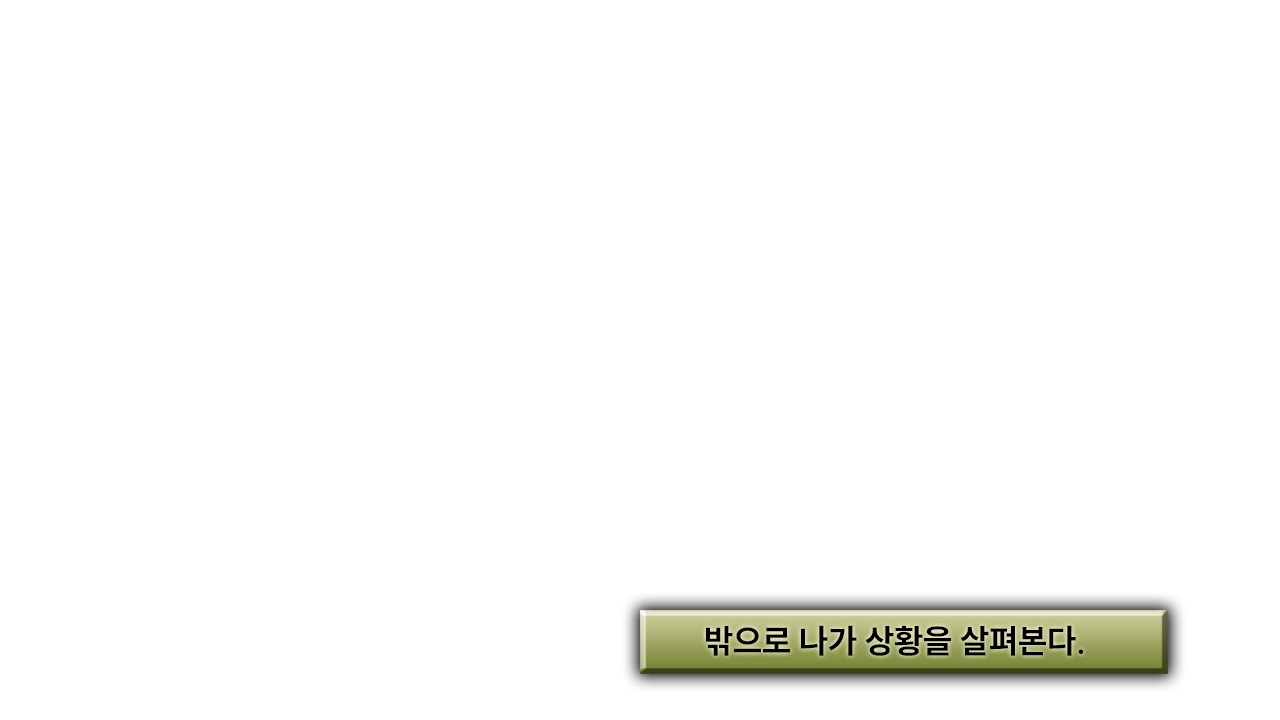
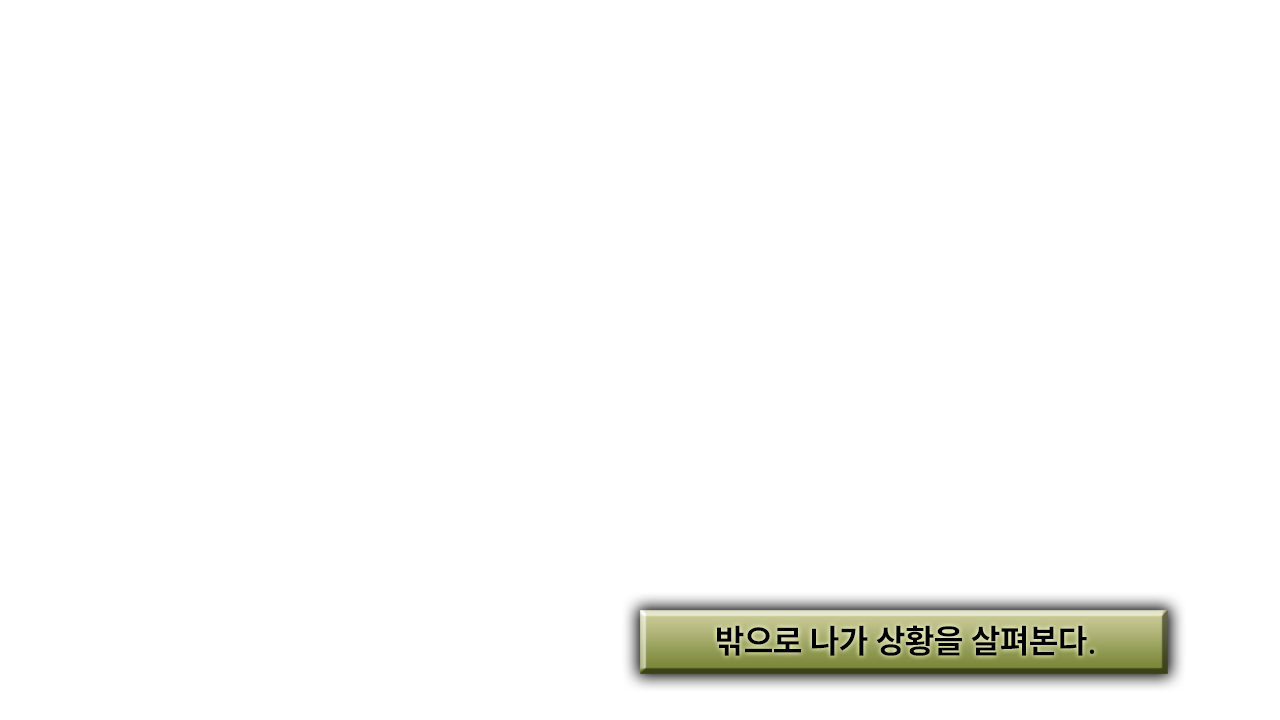
Refactor: 매크로 및 열거형의 추가
가독성의 개선, 에셋 변경

Changed region(s): [[0.5312, 0.8556, 0.875, 0.9167]]

diff --git a/SDL-Game-Framework-main/SDL Game Framework/SDL Game Framework/Framework/Scene.c b/SDL-Game-Framework-main/SDL Game Framework/SDL Game Framework/Framework/Scene.c
@@ -181,9 +181,9 @@ const wchar_t* str2[] = {
 };
 
 #define GUIDELINE_COUNT 11
-#define CHOOSE_POSITION_1 -160
-#define CHOOSE_POSITION_2 -80
-#define CHOOSE_POSITION_3 0
+#define CHOOSE_POSITION_TOP -160
+#define CHOOSE_POSITION_MIDDLE -80
+#define CHOOSE_POSITION_BOTTOM 0
 
 typedef struct MainSceneData
 {
@@ -239,33 +239,33 @@ void init_main(void)
 
 	CreateCsvFile(&data->CsvFile, "222.csv");
 
-	wchar_t* str_text = ParseToUnicode(data->CsvFile.Items[s_CurrentPage][10]);
+	wchar_t* str_text = ParseToUnicode(data->CsvFile.Items[s_CurrentPage][FULL_TEXT]);
 	if (NULL != *str_text)
 	{
 		Text_CreateText(&data->TextLine, "d2coding.ttf", 16, str_text, wcslen(str_text));
 	}
 
-	char* str_background = ParseToAscii(data->CsvFile.Items[s_CurrentPage][1]);
+	char* str_background = ParseToAscii(data->CsvFile.Items[s_CurrentPage][BACK_IMG_NAME]);
 	if (NULL != *str_background)
 	{
 		Image_LoadImage(&data->BackGround, str_background);
 	}
 
-	char* str_choose = ParseToAscii(data->CsvFile.Items[s_CurrentPage][2]);
+	char* str_choose = ParseToAscii(data->CsvFile.Items[s_CurrentPage][CHOOSE_IMG_NAME]);
 	if (NULL != *str_choose)
 	{
 		Image_LoadImage(&data->SelectButton, str_choose);
 	}
 	Image_LoadImage(&data->PointerButton, "Pointer.png");
 
-	char* str_bgm = ParseToAscii(data->CsvFile.Items[s_CurrentPage][4]);
+	char* str_bgm = ParseToAscii(data->CsvFile.Items[s_CurrentPage][SOUND_MUSIC_NAME]);
 	if (NULL != *str_bgm)
 	{
 		Audio_LoadMusic(&data->BGM, str_bgm);
 		Audio_HookMusicFinished(logOnFinished);
 	}
 
-	char* str_se = ParseToAscii(data->CsvFile.Items[s_CurrentPage][6]);
+	char* str_se = ParseToAscii(data->CsvFile.Items[s_CurrentPage][SOUND_EFFECT_NAME]);
 	if (NULL != *str_se)
 	{
 		Audio_LoadSoundEffect(&data->Effect, str_se);
@@ -281,21 +281,21 @@ void init_main(void)
 	data->Select_X = 0;
 	data->Select_Y = 0;
 
-	char* num_choose_quantity = ParseToAscii(data->CsvFile.Items[s_CurrentPage][21]);
+	char* num_choose_quantity = ParseToAscii(data->CsvFile.Items[s_CurrentPage][CHOOSE_QUANTITY]);
 	SelectButtonQuantity = atoi(num_choose_quantity);
 	switch (SelectButtonQuantity)
 	{
 	case 1:
 		data->Pointer_X = 0;
-		data->Pointer_Y = CHOOSE_POSITION_3;
+		data->Pointer_Y = CHOOSE_POSITION_BOTTOM;
 		break;
 	case 2:
 		data->Pointer_X = 0;
-		data->Pointer_Y = CHOOSE_POSITION_2;
+		data->Pointer_Y = CHOOSE_POSITION_MIDDLE;
 		break;
 	case 3:
 		data->Pointer_X = 0;
-		data->Pointer_Y = CHOOSE_POSITION_1;
+		data->Pointer_Y = CHOOSE_POSITION_TOP;
 		break;
 	}
 
@@ -348,16 +348,16 @@ void update_main(void)
 	}
 
 	// ���� �ʿ�
-	if (Input_GetKeyDown(VK_DOWN) && CHOOSE_POSITION_1 <= data->Pointer_Y && data->Pointer_Y < CHOOSE_POSITION_3)
+	if (Input_GetKeyDown(VK_DOWN) && CHOOSE_POSITION_TOP <= data->Pointer_Y && data->Pointer_Y < CHOOSE_POSITION_BOTTOM)
 
 	{
 		data->Pointer_Y += 80;
 	}
-	if (Input_GetKeyDown(VK_UP) && CHOOSE_POSITION_2 < data->Pointer_Y && SelectButtonQuantity == 2)
+	if (Input_GetKeyDown(VK_UP) && CHOOSE_POSITION_MIDDLE < data->Pointer_Y && SelectButtonQuantity == 2)
 	{
 		data->Pointer_Y -= 80;
 	}
-	if (Input_GetKeyDown(VK_UP) && CHOOSE_POSITION_1 < data->Pointer_Y && SelectButtonQuantity == 3)
+	if (Input_GetKeyDown(VK_UP) && CHOOSE_POSITION_TOP < data->Pointer_Y && SelectButtonQuantity == 3)
 	{
 		data->Pointer_Y -= 80;
 	}
@@ -365,42 +365,42 @@ void update_main(void)
 	// ������ ����
 	if (Input_GetKeyDown(VK_SPACE))
 	{
-		if (data->Pointer_Y == CHOOSE_POSITION_1)		//
+		if (data->Pointer_Y == CHOOSE_POSITION_TOP)		//
 		{
-			char* num_choose_1 = ParseToAscii(data->CsvFile.Items[s_CurrentPage][15]);
+			char* num_choose_1 = ParseToAscii(data->CsvFile.Items[s_CurrentPage][NEXT_SCENE_1]);
 			s_SelectNextPage = atoi(num_choose_1);
 		}
-		else if (data->Pointer_Y == CHOOSE_POSITION_2)	// ������ 2 ���� Scene
+		else if (data->Pointer_Y == CHOOSE_POSITION_MIDDLE)	// ������ 2 ���� Scene
 		{
 			char* num_choose_2;
 			if (SelectButtonQuantity == 2)
 			{
-				num_choose_2 = ParseToAscii(data->CsvFile.Items[s_CurrentPage][15]);
+				num_choose_2 = ParseToAscii(data->CsvFile.Items[s_CurrentPage][NEXT_SCENE_1]);
 				s_SelectNextPage = atoi(num_choose_2);
 			}
 			else if (SelectButtonQuantity == 3)
 			{
-				num_choose_2 = ParseToAscii(data->CsvFile.Items[s_CurrentPage][16]);
+				num_choose_2 = ParseToAscii(data->CsvFile.Items[s_CurrentPage][NEXT_SCENE_2]);
 				s_SelectNextPage = atoi(num_choose_2);
 			}
 
 		}
-		else if (data->Pointer_Y == CHOOSE_POSITION_3)	// ������ 3 ���� Scene
+		else if (data->Pointer_Y == CHOOSE_POSITION_BOTTOM)	// ������ 3 ���� Scene
 		{
 			char* num_choose_3;
 			if (SelectButtonQuantity == 1)
 			{
-				num_choose_3 = ParseToAscii(data->CsvFile.Items[s_CurrentPage][15]);
+				num_choose_3 = ParseToAscii(data->CsvFile.Items[s_CurrentPage][NEXT_SCENE_1]);
 				s_SelectNextPage = atoi(num_choose_3);
 			}
 			else if (SelectButtonQuantity == 2)
 			{
-				num_choose_3 = ParseToAscii(data->CsvFile.Items[s_CurrentPage][16]);
+				num_choose_3 = ParseToAscii(data->CsvFile.Items[s_CurrentPage][NEXT_SCENE_2]);
 				s_SelectNextPage = atoi(num_choose_3);
 			}
 			else if (SelectButtonQuantity == 3)
 			{
-				num_choose_3 = ParseToAscii(data->CsvFile.Items[s_CurrentPage][17]);
+				num_choose_3 = ParseToAscii(data->CsvFile.Items[s_CurrentPage][NEXT_SCENE_3]);
 				s_SelectNextPage = atoi(num_choose_3);
 			}
 		}

diff --git a/SDL-Game-Framework-main/SDL Game Framework/SDL Game Framework/csv.h b/SDL-Game-Framework-main/SDL Game Framework/SDL Game Framework/csv.h
@@ -16,6 +16,32 @@ typedef struct CsvFile
 	CsvItem* Items[MAXIMUM_ROW];
 } CsvFile;
 
+typedef enum CsvList
+{
+	SENCE_NUMBER,
+	BACK_IMG_NAME,
+	CHOOSE_IMG_NAME,
+	IMG_OUTPUT_STYLE,
+	SOUND_MUSIC_NAME,
+	SOUND_MUSIC_STYLE,
+	SOUND_EFFECT_NAME,
+	SOUND_EFFECT_PLAY_TIME,
+	SOUND_EFFECT_STYLE,
+	TEXT_NAME,
+	FULL_TEXT,
+	CHOOSE_TEXT_1,
+	CHOOSE_TEXT_2,
+	CHOOSE_TEXT_3,
+	SAVE_POINT_SCENE,
+	NEXT_SCENE_1,
+	NEXT_SCENE_2,
+	NEXT_SCENE_3,
+	PASSWORD_1,
+	PASSWORD_2,
+	MASTER_KEY,
+	CHOOSE_QUANTITY
+};
+
 void		CreateCsvFile(CsvFile* csvFile, const char* filename);
 void		FreeCsvFile(CsvFile* csvFile);
 int			ParseToInt(const CsvItem item);
